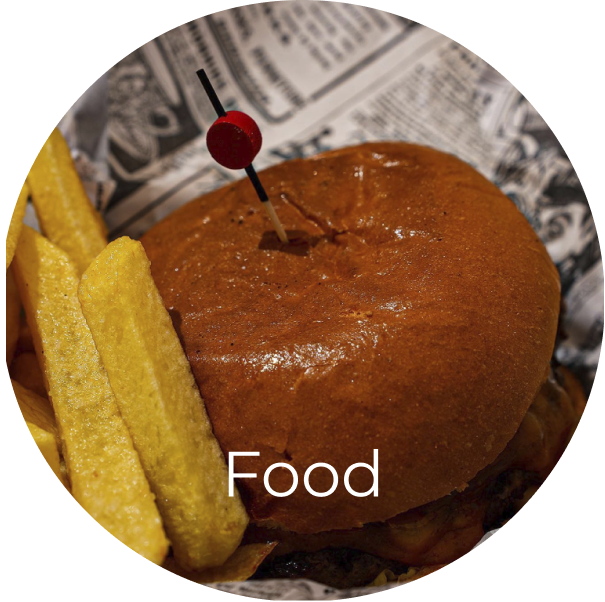
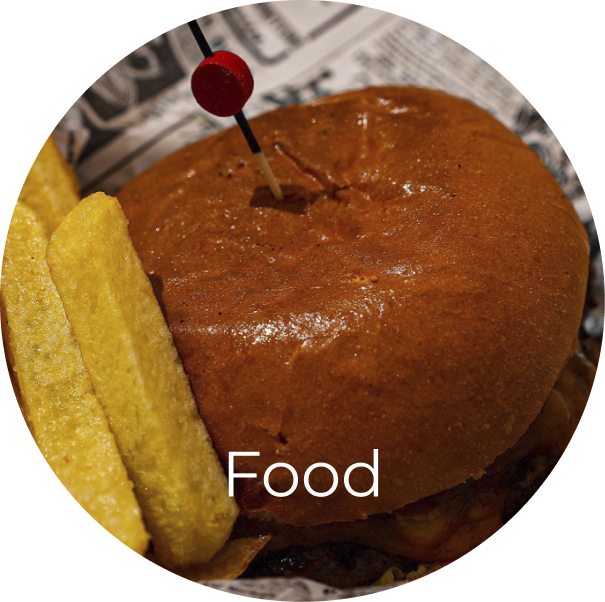
fixing and moving blobFood

diff --git a/style/main.css b/style/main.css
@@ -42,7 +42,7 @@
 }
 
 .blobFood {
-    left: 70vw;
+    left: 60vw;
     top: 50vh;
     width: 25vw;
 }
